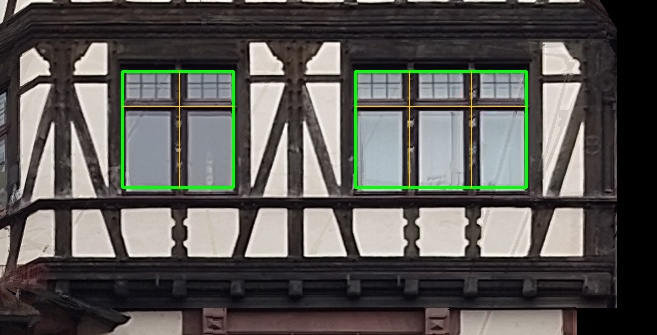
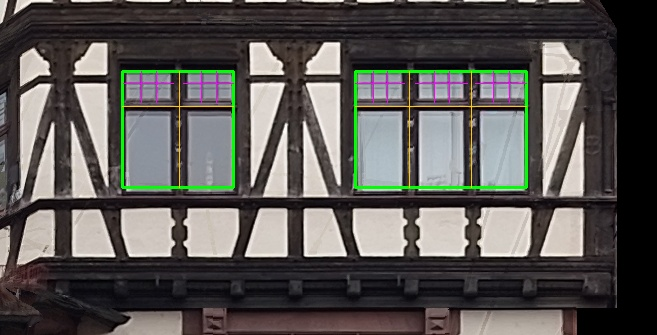
Fensterstufe: fassade_ortho 431 s -> 12 s, Sprossen, Seiten-Helligkeitsregel; Gegenprobe Kaufhaus (5 Masswerkfenster, 2 Erker)
Claude-Session: https://claude.ai/code/session_01BMC5F7JqzthTsrTAV2gKLz

Changed region(s): [[0.6393, 0.209, 0.7915, 0.2985], [0.1826, 0.209, 0.3653, 0.2985], [0.5479, 0.209, 0.6088, 0.2985]]

diff --git a/tools/fenster_aus_parsing.py b/tools/fenster_aus_parsing.py
@@ -23,6 +23,19 @@ def main():
     ap = argparse.ArgumentParser(); ap.add_argument("ortho"); ap.add_argument("--aus"); ap.add_argument("--stimmen", type=int, default=3); ap.add_argument("--weiss", type=float, default=0.12)
     ap.add_argument("--luecke", type=float, default=0.25); ap.add_argument("--min_b", type=float, default=0.25); a = ap.parse_args()
     FA = {F.get("id_vorbau") or F.get("_id") or F.get("id"): F for F in json.load(open(os.path.join(a.ortho, "fassaden.json")))["fassaden"]}; EL = json.load(open(os.path.join(a.ortho, "elemente.json")))["fassaden"]; erg = {}
+    def seite(F_): return int(round(np.degrees(np.arctan2(F_["n"][1], F_["n"][0])) / 20.0)) % 18
+    VMED = {}; samm = {}
+    for fid, X in EL.items():                                               # Vorlauf: gewichteter Helligkeitsmedian je Gebaeudeseite
+        F = FA.get(fid); im = cv2.imread(os.path.join(a.ortho, f"ortho_{fid}.png"))
+        if F is None or im is None: continue
+        r = F["raster"]; zl = r["zelle"]; hv = cv2.cvtColor(im, cv2.COLOR_BGR2HSV).astype(np.float32) / 255.0
+        for e in X["elemente"]:
+            if e["klasse"] != "fenster" or e.get("stimmen", 0) < a.stimmen: continue
+            du = (e["u1"] - e["u0"]) * 0.2; dz = (e["z1"] - e["z0"]) * 0.2; c = hv[max(int((r["z1"] - e["z1"] + dz) / zl), 0):int((r["z1"] - e["z0"] - dz) / zl), max(int((e["u0"] + du - r["u0"]) / zl), 0):int((e["u1"] - du - r["u0"]) / zl)]
+            if c.size < 60 or ((c[..., 2] > 0.85) & (c[..., 1] < 0.12)).mean() >= 0.08: continue
+            samm.setdefault(seite(F), []).append((float(c[..., 2].mean()), e.get("stimmen", 1) * (e["u1"] - e["u0"]) * (e["z1"] - e["z0"])))
+    for k_, L_ in samm.items():
+        L_.sort(); cw = np.cumsum([w_ for _, w_ in L_]); VMED[k_] = L_[int(np.searchsorted(cw, 0.5 * cw[-1]))][0]
     for fid, X in EL.items():
         F = FA.get(fid); im = cv2.imread(os.path.join(a.ortho, f"ortho_{fid}.png"))
         if F is None or im is None: continue
@@ -36,9 +49,14 @@ def main():
             x0, x1, y0, y1 = px(e); w = weiss[max(y0, 0):y1, max(x0, 0):x1]
             if w.size < 20 or leer[max(y0, 0):y1, max(x0, 0):x1].mean() > 0.3: continue
             c = hsv[max(y0, 0):y1, max(x0, 0):x1]; hell = float(((c[..., 2] > 0.85) & (c[..., 1] < 0.12)).mean()); dunkel = float((c[..., 2] < 0.3).mean()); sd = float(c[..., 2].std())
-            e = dict(e, hellweiss=hell, dunkel=dunkel, sd=sd); K.append(e)
+            e = dict(e, hellweiss=hell, dunkel=dunkel, sd=sd, V=float(c[..., 2].mean())); K.append(e)
         # Glasprobe (Zahlen aus dem Nordgiebel, 34 Kaesten): Scheiben sd 0,01-0,14 / hellweiss 0 / dunkel <= 0,11; Fachwerkfelder, Konsolen, Sammelkaesten sd >= 0,17 oder dunkel >= 0,37 oder hellweiss >= 0,17
-        K = [e for e in K if e["hellweiss"] < 0.08 and e["dunkel"] < 0.3 and e["sd"] < 0.16]
+        # 15.11. Gegenprobe Historisches Kaufhaus: die Regel "gleichmaessiges helles Glas" (sd < 0,16, dunkel < 0,3) warf dort ALLE Masswerkfenster weg (Butzen/Sechseck-Verglasung,
+        # dunkel, bunt). Allgemein gilt nur: im Fenster liegt kein hellweisser Putz. Balken/Schnitzfelder faengt der Erkenner selbst ueber Gegenbegriffe (fassade_parsing GEGEN).
+        K = [e for e in K if e["hellweiss"] < 0.08]
+        # Fassadenrichtungs-Regel: die echten Fenster EINER Gebaeudeseite sehen aehnlich hell aus (helles Spiegelglas ODER dunkle Butzenfenster). Kaesten, deren Helligkeit
+        # > 0,17 vom stimmen- und flaechengewichteten Median der Seite abweicht, sind etwas anderes (dunkle Schnitzfelder/Balken am Fachwerk; helle Tafeln am Kaufhaus).
+        K = [e for e in K if abs(e["V"] - VMED.get(seite(F), e["V"])) <= 0.17]
         K = [e for e in K if sum(1 for o in K if o is not e and o["u0"] >= e["u0"] - 0.05 and o["u1"] <= e["u1"] + 0.05 and o["z0"] >= e["z0"] - 0.05 and o["z1"] <= e["z1"] + 0.05) < 2]
         K.sort(key=lambda e: -e.get("stimmen", 0)); S = []
         for e in K:
@@ -60,12 +78,47 @@ def main():
             sp = sorted({round(0.5 * (p["u0"] + p["u1"]), 1): p for p in g}.values(), key=lambda p: p["u0"]); teiler = [round(0.5 * (sp[k]["u1"] + sp[k + 1]["u0"]), 3) for k in range(len(sp) - 1) if sp[k + 1]["u0"] - sp[k]["u1"] > -0.05]
             ze = sorted({round(0.5 * (p["z0"] + p["z1"]), 1): p for p in g}.values(), key=lambda p: p["z0"]); ka = [round(0.5 * (ze[k]["z1"] + ze[k + 1]["z0"]), 3) for k in range(len(ze) - 1) if ze[k + 1]["z0"] - ze[k]["z1"] > -0.05]
             fen.append(dict(u0=round(u0, 3), u1=round(u1, 3), z0=round(z0, 3), z1=round(z1, 3), teiler=teiler, kaempfer=ka[0] if len(ka) == 1 else None, scheiben=len(g), stimmen_min=min(p.get("stimmen", 0) for p in g)))
+        # Sprossen (Nutzer 15.11.: "trifft der Erkenner auch die Streben innerhalb des Fensters?"): je Scheibe duenne dunkle Linien im Ortho - Helligkeitsprofil quer,
+        # Einbruch gegen den gleitenden Median > 0,05, hoechstens 6 cm breit, nicht am Scheibenrand; gilt nur, wenn die Linie ueber >= 70 % der Scheibe durchlaeuft.
+        grau = hsv[..., 2]
+        def linien(c, achse):
+            from scipy.ndimage import median_filter, label
+            prof = c.mean(axis=achse); n_ = len(prof); k = max(5, int(0.25 / zl) | 1)
+            if n_ < 12: return []
+            ein = median_filter(prof, size=k, mode="nearest") - prof; lab, m = label(ein > 0.05); out = []
+            for q in range(1, m + 1):
+                ix = np.flatnonzero(lab == q); mi = 0.5 * (ix[0] + ix[-1])
+                if len(ix) * zl > 0.06 or mi < 0.06 / zl or mi > n_ - 1 - 0.06 / zl: continue
+                streifen = c[:, ix] if achse == 0 else c[ix, :]; quer = streifen.mean(axis=1 if achse == 0 else 0)
+                if (quer < np.median(c) - 0.03).mean() >= 0.7: out.append(mi)
+            out = [m_ for k_, m_ in enumerate(out) if k_ == 0 or (m_ - out[k_ - 1]) * zl > 0.08]; t_ = [(m_ + 0.5) / n_ for m_ in out]; gut = []          # doppelte weg; dann REGEL: Sprossen teilen die Scheibe gleichmaessig
+            for m_, t in zip(out, t_):                                    # (1/2, Drittel, Viertel) und stehen ab Dritteln spiegelbildlich - Einzellinien woanders sind Spiegelungen, Draehte, Vorhangkanten
+                if abs(t - 0.5) < 0.12 or any(abs(t - k_ / q_) < 0.07 and any(abs(o - (1 - t)) < 0.07 for o in t_) for q_ in (3, 4) for k_ in range(1, q_)): gut.append(m_)
+            return gut
+        # je Scheibe messen, dann REGELMAESSIGKEIT: gleich grosse Scheiben einer Fassade tragen dasselbe Sprossenbild - das haeufigste gemessene Muster (Anzahl), Lagen gemittelt, gilt fuer alle
+        for p in S:
+            x0, x1, y0, y1 = px(p, 0.0); c = grau[max(y0, 0):y1, max(x0, 0):x1]; p["_v"] = []; p["_h"] = []
+            if c.size >= 100: p["_v"] = [(m_ + 0.5) / c.shape[1] for m_ in linien(c, 0)]; p["_h"] = [(m_ + 0.5) / c.shape[0] for m_ in linien(c, 1)]
+        import collections
+        for p in S:
+            gl = [q for q in S if abs((q["u1"] - q["u0"]) / (p["u1"] - p["u0"]) - 1) < 0.1 and abs((q["z1"] - q["z0"]) / (p["z1"] - p["z0"]) - 1) < 0.1]
+            for key in ("_v", "_h"):
+                zahl = collections.Counter(len(q[key]) for q in gl if q[key]); n_m = zahl.most_common(1)[0][0] if zahl and sum(zahl.values()) >= max(2, 0.4 * len(gl)) else 0
+                mus = [q[key] for q in gl if len(q[key]) == n_m]; p[key + "m"] = [float(np.mean([m_[k_] for m_ in mus])) for k_ in range(n_m)] if n_m else []
+        for w in fen:
+            w["sprossen"] = []
+            for p in S:
+                if not (p["u0"] >= w["u0"] - 0.02 and p["u1"] <= w["u1"] + 0.02 and p["z0"] >= w["z0"] - 0.02 and p["z1"] <= w["z1"] + 0.02): continue
+                bu = p["u1"] - p["u0"]; bz = p["z1"] - p["z0"]
+                w["sprossen"] += [[round(p["u0"] + t * bu, 3), round(p["z0"], 3), round(p["u0"] + t * bu, 3), round(p["z1"], 3)] for t in p["_vm"]]
+                w["sprossen"] += [[round(p["u0"], 3), round(p["z1"] - t * bz, 3), round(p["u1"], 3), round(p["z1"] - t * bz, 3)] for t in p["_hm"]]
         fen.sort(key=lambda w: (round(w["z0"]), w["u0"])); erg[fid] = dict(o=F["o"], d=F["d"], n=F["n"], fenster=fen, fotos=X.get("fotos", [])[:4])
         for w in fen:
             x0, x1, y0, y1 = px(w, 0.0); cv2.rectangle(im, (x0, y0), (x1, y1), (0, 255, 0), 2)
             for t in w["teiler"]: X_ = int((t - r["u0"]) / zl); cv2.line(im, (X_, y0), (X_, y1), (0, 200, 255), 1)
             if w["kaempfer"]: Y_ = int((r["z1"] - w["kaempfer"]) / zl); cv2.line(im, (x0, Y_), (x1, Y_), (0, 200, 255), 1)
-        cv2.imwrite(os.path.join(a.ortho, f"fenster_{fid}.jpg"), im); print(f"{fid}: {len(fen)} Fenster aus {len(S)} Scheiben ({len(X['elemente'])} Kaesten): " + "; ".join(f"u {w['u0']:.2f}..{w['u1']:.2f} z {w['z0']:.2f}..{w['z1']:.2f} T{len(w['teiler'])}" for w in fen))
+            for a0, b0, a1, b1 in w.get("sprossen", []): cv2.line(im, (int((a0 - r["u0"]) / zl), int((r["z1"] - b0) / zl)), (int((a1 - r["u0"]) / zl), int((r["z1"] - b1) / zl)), (255, 0, 255), 1)
+        cv2.imwrite(os.path.join(a.ortho, f"fenster_{fid}.jpg"), im); print(f"{fid}: {len(fen)} Fenster aus {len(S)} Scheiben ({len(X['elemente'])} Kaesten): " + "; ".join(f"u {w['u0']:.2f}..{w['u1']:.2f} z {w['z0']:.2f}..{w['z1']:.2f} T{len(w['teiler'])} Spr{len(w.get('sprossen', []))}" for w in fen))
     aus = a.aus or os.path.join(a.ortho, "fenster.json"); json.dump(erg, open(aus, "w"), indent=1); print("->", aus)
 
 

diff --git a/tools/bauteile.py b/tools/bauteile.py
@@ -42,13 +42,14 @@ class Wand:
     def kasten(self, u0, u1, z0, z1, w0, w1): return M.hull_points([self.punkt(u, z, w) for u in (u0, u1) for z in (z0, z1) for w in (w0, w1)])
     def huelle(self, pts): return M.hull_points([self.punkt(u, z, w) for u, z, w in pts])
     def scheibe(self, u, z, durchmesser, w0, w1, nseg=64): return M.cylinder(w1 - w0, durchmesser / 2, durchmesser / 2, nseg).translate((0, 0, w0)).transform(self.matrix(u)).translate((0, 0, z))
-    def fenster(self, u0, u1, z0, z1, w, tiefe=0.12, teiler=(), kaempfer=None, b=0.07, rahmen=0.05):
+    def fenster(self, u0, u1, z0, z1, w, tiefe=0.12, teiler=(), kaempfer=None, b=0.07, rahmen=0.05, sprossen=(), b_sprosse=0.03):
         """Rechteckfenster in einer Wandflaeche bei w: liefert (abzug, zusatz). Nische 'tiefe' tief; Rahmen, Pfosten (teiler = u-Lagen) und Kaempfer (z) 'b' breit,
         5 cm hinter der Wandflaeche (so misst pruefstand.ebene_oeffnungen mit tiefe 0,03 die volle Nischenbreite). koerper = koerper - abzug + zusatz."""
         v0, v1 = w - tiefe - 0.01, w - 0.05; K_ = self.kasten; e = 0.005          # e: Rahmen greifen 5 mm in die Laibung (deckungsgleiche Flaechen gaben Splitterkoerper)
         zus = K_(u0 - e, u0 + rahmen, z0 - e, z1 + e, v0, v1) + K_(u1 - rahmen, u1 + e, z0 - e, z1 + e, v0, v1) + K_(u0 - e, u1 + e, z0 - e, z0 + rahmen, v0, v1) + K_(u0 - e, u1 + e, z1 - rahmen, z1 + e, v0, v1)
         for t_ in teiler: zus = zus + K_(t_ - b / 2, t_ + b / 2, z0 - e, z1 + e, v0, v1)
         if kaempfer: zus = zus + K_(u0 - e, u1 + e, kaempfer - b / 2, kaempfer + b / 2, v0, v1)
+        for a0, c0, a1, c1 in sprossen: zus = zus + self.stab((a0, c0), (a1, c1), b_sprosse, v0, v1 - 0.01)      # Sprossen (u0, z0, u1, z1) aus fenster_aus_parsing.py, 1 cm hinter den Pfosten
         return K_(u0, u1, z0, z1, w - tiefe, w + 0.02), zus
     def stab(self, p, q, b, w0, w1):
         """Gerader Stab von p = (u, z) nach q = (u, z), Breite b, von w0 bis w1 vor der Wand (Zeiger, Ziffernstriche, Leisten)."""
@@ -95,7 +96,7 @@ def fenster_aus_json(koerper, datei, tiefe=0.12, min_stimmen=3):
             if f.get("stimmen_min", 0) < min_stimmen: continue
             sonde = W.kasten(f["u0"], f["u1"], f["z0"], f["z1"], 0.03, 0.08)
             if (koerper ^ sonde).volume() > 0.2 * sonde.volume(): continue
-            ab, zu = W.fenster(f["u0"], f["u1"], f["z0"], f["z1"], 0.0, tiefe=tiefe, teiler=f.get("teiler", ()), kaempfer=f.get("kaempfer")); koerper = koerper - ab + zu; n_ += 1
+            ab, zu = W.fenster(f["u0"], f["u1"], f["z0"], f["z1"], 0.0, tiefe=tiefe, teiler=f.get("teiler", ()), kaempfer=f.get("kaempfer"), sprossen=f.get("sprossen", ())); koerper = koerper - ab + zu; n_ += 1
         if n_: belege.append(dict(seite="wand", element=f"{n_} Fenster Fassade {fid} (automatisch erkannt)", quelle="OWLv2 auf dem Mehrfoto-Ortho (fassade_ortho.py -> fassade_parsing.py -> fenster_aus_parsing.py), Fotos " + ", ".join(F.get("fotos", [])[:3]),
                                   hinweis="ERKENNUNG, am Bild fenster_<id>.jpg pruefen; Nischentiefe und Rahmenbreiten ANNAHME"))
     return koerper, belege

diff --git a/tools/fassade_ortho.py b/tools/fassade_ortho.py
@@ -111,7 +111,9 @@ def main(argv=None):
         ms_ = trimesh.load(a.stl); ms_.apply_scale(obj.get("stl_massstab", 87) / 1000.0)            # nur Flaechen, die KEINE LoD2-Fassade sind (Ebenenabstand > 0,3 m), mit eigener Kennung e00..
         lod = fassaden_gruppieren(waende, mitte); senk = np.abs(ms_.face_normals[:, 2]) < 0.2
         fs = []                                                                                    # zusammenhaengende koplanare Flaechenstuecke (trimesh facets) statt "gleiche Ebene irgendwo im Modell"
-        for fc_ in list(ms_.facets) + [[i_] for i_ in np.where(senk)[0] if not any(i_ in f__ for f__ in ms_.facets)]:
+        in_fc_ = np.zeros(len(ms_.faces), bool)                                                      # 15.11.2026: vorher `any(i in f for f in facets)` je Dreieck = 550 Mio Python-Schritte, 476 von 484 s (Profil); Ergebnis gleich
+        if len(ms_.facets): in_fc_[np.concatenate([np.asarray(f__) for f__ in ms_.facets])] = True
+        for fc_ in list(ms_.facets) + [[i_] for i_ in np.where(senk & ~in_fc_ & (ms_.area_faces >= a.min_flaeche))[0]]:
             fc_ = np.asarray(fc_)
             if not senk[fc_].all() or ms_.area_faces[fc_].sum() < a.min_flaeche: continue
             fs += fassaden_gruppieren([ms_.vertices[f_] for f_ in ms_.faces[fc_]], mitte, min_flaeche=a.min_flaeche)

diff --git a/tools/fassade_parsing.py b/tools/fassade_parsing.py
@@ -31,7 +31,7 @@ KLASSEN = {
     "balkon": ["a balcony", "a balustrade"],
 }
 # Gegenbegriffe (aus zier_ausschnitt.GEGEN + S4-Spec): Dinge, die Fensterkasten/Figurkasten vortaeuschen. Eine Box, deren bester Begriff ein Gegenbegriff ist, wird verworfen.
-GEGEN = ["a wrought iron sign", "a shop sign", "a lamp", "an awning", "a canopy", "a coat of arms"]
+GEGEN = ["a wrought iron sign", "a shop sign", "a lamp", "an awning", "a canopy", "a coat of arms", "a half-timbered wall panel", "a wooden beam", "a carved wooden ornament"]   # 15.11.2026: Fachwerkfelder/Balken/Schnitzfelder wurden am Schwabentor-Nachbarhaus als Fenster gemeldet
 MODELL = "google/owlv2-base-patch16-ensemble"
 
 

diff --git a/modelle/STAND_2026-11-14.md b/modelle/STAND_2026-11-14.md
@@ -232,3 +232,4 @@
 - **11:55 BUG (Nutzerbild "Achtung, Bug"): schraege Rippe im Suedrelief rechts bei z 13,3-15** = Dachkante des NACHBARHAUSES, die im Netz vor der Turmwand liegt und an der Klemme (+0,15) abgeschnitten als Rippe im Turmrelief stand (u 0,1-1,9). Behoben: `steine_generieren.py --fremd u0 u1 z0 z1` (Klemmzellen + Nullzellen im Feld = Loch) und Zone 0-2,4 x 9-16; dort jetzt generierte Eckquader (in Wirklichkeit vom Nachbardach verdeckt). Rest: duenne schraege Naht am Lochrand. Lehre: Relief-Einsatz an Anschluessen fremder Baukoerper (Nachbardach, Vordach) immer am Bild 'Modell neben Foto' pruefen - Klemmflecken sind Fremdkoerper, keine Wand. Abnahme gruen, 3D-Seite Version 34.
 - **12:40 PIPELINE-AUTOMATISIERUNG (Nutzer: "Baue alles automatisch in die Pipeline, was irgendwie geht; schau was du optimieren kannst").** (1) `tools/fassaden_kette.py <objekt.json> --netz <mesh.npz>`: je Wand (LoD2-Aussenkanten aus dach.json oder --wand) Fotos automatisch waehlen (`fotos_fuer_wand`: Abdeckung x px/m x cos), relief_einsatz -> relief_putz -> steine_generieren, Bericht audit/fassaden_kette.json; `anbauen(koerper, OBJ)` fuer Generatoren (in der Vorlage objekt_anlegen.py eingebaut). Test Turm West/Sued: gleiches Ergebnis wie von Hand, Tor bleibt automatisch frei. (2) relief_einsatz schreibt Maske `oeffnung` (Loch UND Netz dahinter); steine_generieren `--max_loch_m2` (Automatik: Loecher >= 1,5 m2 = Oeffnung/grosse Verdeckung bleiben glatt, auch ihr Spaltenbereich im Sockelstreifen; nur Netz-hinten erkannte die Durchfahrt nicht). (3) `tools/netz_aus_dicht.py`: OpenMVS (InterfaceCOLMAP + ReconstructMesh) + Ausschnitt im Modellrahmen als Kettenschritt; identisch zum Handnetz (Abstand 0). ACHTUNG Zeitfresser/Fehler: Testlauf mit Ausgabe im Scratchpad schrieb 4,7 GB auf die ROOT-Platte -> Werkzeug verweigert jetzt Ausgaben ausserhalb /media/oem/scan. (4) gesamtkette: neue Stufe `fassaden` (nach fototor: Netz -> Fassaden-Kette -> neu bauen), Insel-Ketten-Tor, hoehen_tor automatisch; bauen_abnehmen: `neben_fotos`. NUR Syntax geprueft, kein Kettendurchlauf. (5) Registersichtung (Agent, NICHTS_GEBRACHT/VERSUCHSREGISTER/LIZENZ): OpenMVS-Standardnetz schlaegt RefineMesh/Poisson/TSDF/3DGS/2DGS (BR); PatchMatch-Bildgroesse 1000-1200 px = Optimum; VGGT/MASt3R/DUSt3R nur NC; Depth-Anything-Relief aus Einzelfoto taugt nicht; SAM-Kanten Praezision 0,27-0,57; OFFEN und lizenzsauber: MapAnything, Depth-Anything-3, SAM2, DeepLSD+LIMAP, photometrisch-vs-geometrisch. Vorhanden und NICHT in der Kette: `fassade_ortho.py` + `fassade_parsing.py` (OWLv2, Mehrfoto-Abstimmung, Fenster/Tueren automatisch) -> Probelauf am Nordgiebel Nachbarhaus gegen meine 9 Handfenster laeuft.
 - **13:30 FENSTER AUTOMATISCH - Probe bestanden.** Vorhandene, nie eingehaengte Werkzeuge `fassade_ortho.py` (Mehrfoto-Ortho, Median) + `fassade_parsing.py` (OWLv2, Abstimmung ueber Fotos) am Nordgiebel Nachbarhaus (4 Fachwerkebenen, 12 automatisch gewaehlte Fotos). Erster Lauf 8 min UMSONST: beide Werkzeuge suchten Fotos als `<nr>_*` statt `<nr>.jpg` -> 0 Fotos (behoben). OWLv2 liefert je Scheibe/Oberlicht einen Kasten (gut) plus Fehltreffer (Fachwerkfelder, Konsolen, Sammelkaesten). NEU `tools/fenster_aus_parsing.py`: Glasprobe am Ortho (Streuung < 0,16, hellweiss < 8 %, dunkel < 30 % - Schwellen aus 34 Kaesten), Sammel-/Doppelkaesten weg, Scheiben zu Fenstern gruppieren -> Rechteck + Pfosten + Kaempfer. Ergebnis: 6 von 6 sichtbaren Fachwerkfenstern, keine Fehltreffer, Abweichung zu meinen foto_mass-Handmassen 1-4 cm in u, bis 8 cm an der Unterkante (Erkenner = Glaskante, Handmass = Rahmenkante). `bauteile.fenster_aus_json` baut sie; Gegenprobe `AUTO_FENSTER=1 bauen_abnehmen schwab_nachbar`: alle 5 Fensterpruefungen bestehen mit den automatischen Fenstern (2,18 / 1,40 / 0,62 / 1,40 / 1,46 m). Nicht gefunden: Fenster auf Ebenen ausserhalb der Probe (Steinfenster) und vom Fluegel verdeckte. In gesamtkette als Stufe `fenster` (Ortho -> Parsing -> Liste audit/fenster_auto.json -> neu bauen), Vorlage objekt_anlegen ruft fenster_aus_json. NUR Syntax geprueft. Zeitfresser: fassade_ortho 431 s fuer 4 Ebenen x 12 Fotos (Profil laeuft) - GPU-Kandidat.
+- **14:30 FENSTERSTUFE: schneller, Sprossen, Gegenprobe KAUFHAUS (Nutzer: "trifft er auch die Streben?", "teste am Historischen Kaufhaus - magische Sechsecke").** (1) fassade_ortho: Profil zeigte 476 von 484 s in EINER Python-Schleife (`any(i in f for f in facets)` je Dreieck, 550 Mio Schritte) -> vektorisiert: 431 s -> 12 s, Ortho bitgleich. Kein GPU-Thema. (2) Sprossen in fenster_aus_parsing: Helligkeitsprofil je Scheibe (Einbruch > 0,05 gegen gleitenden Median, <= 6 cm, >= 70 % durchlaufend), nur regelmaessige Teilung (1/2, Drittel/Viertel spiegelbildlich), gleich grosse Scheiben teilen das haeufigste Muster. Nordgiebel Geschoss A: alle 5 Oberlichter 2 senkrechte + 1 waagerechte (stimmt mit dem Foto); Geschoss C nur teilweise (3 waagerechte unten, Oberlichter fehlen), D nichts. bauteile.Wand.fenster(sprossen=...) baut sie (3 cm). (3) KAUFHAUS (kaufhaus_null5, 94 Buendelkameras, LoD2-Fassaden >= 20 m2, 51 s Ortho): OWLv2 fand an der Hauptfassade f02 alle 5 Masswerkfenster (9-10 von 10 Stimmen), 4 Arkadenboegen, beide Erker, Figuren, Gauben. MEINE Glasprobe vom Nachmittag (gleichmaessig hell) warf dort ALLE Fenster weg - nur an einer Fassade abgestimmt. Ersetzt durch: kein hellweisser Putz im Kasten + Helligkeit innerhalb 0,17 um den stimmen-/flaechengewichteten Median der GEBAEUDESEITE (helles Spiegelglas ODER dunkle Butzenfenster); Gegenbegriffe Fachwerkfeld/Balken/Schnitzfeld im Erkenner brachten allein nichts. Ergebnis beide Objekte: Fachwerk 6/6 ohne Fehltreffer, Kaufhaus f02 5 Masswerkfenster (2,0 x 2,5 m, Achsabstand 2,75-2,86 m = Registerwert 2,86) + 2 Erker + 1 Kleinfenster, je Masswerkfenster 3 senkrechte + 1 waagerechte Teilung erkannt. NICHT geleistet: die Sechseck-/Butzenverglasung selbst (Ortho 5 cm Zelle und fleckig - zu grob), Masswerkform (Spitzbogen/Nasen) - nur Rechtecke; Erker nur als Kasten. Bild modelle/kaufhaus_null5/audit/fenster_auto_f02.jpg angesehen.
